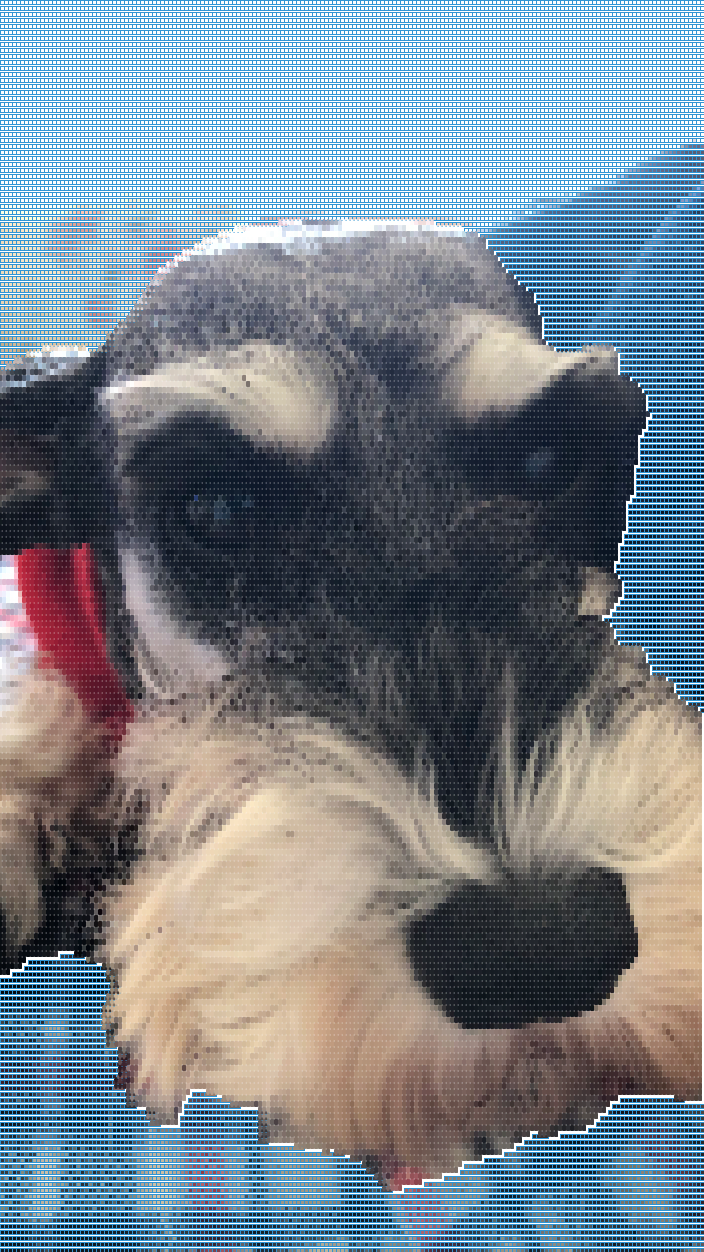
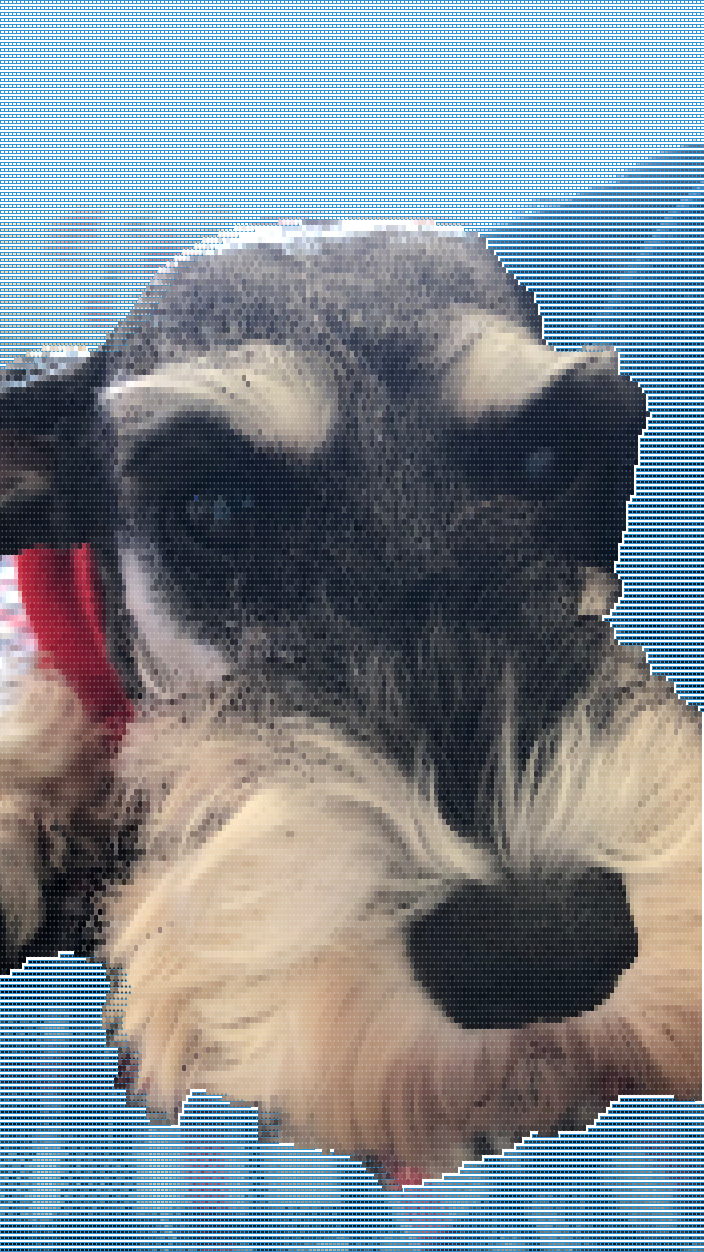
23

Changed region(s): [[0.0, 0.0, 1.0, 0.5607], [0.0, 0.7476, 1.0, 1.0]]

diff --git a/sketch.js b/sketch.js
@@ -2,8 +2,8 @@ let sourceImg=null;
 let maskImg=null;
 let renderCounter=0;
 
-let sourceFile = "input_1.jpg";
-let maskFile   = "mask_1.png";
+let sourceFile = "input_3.jpg";
+let maskFile   = "mask_3.png";
 let outputFile = "artwork_1.png";
 
 function preload() {
@@ -21,8 +21,8 @@ function setup () {
   sourceImg.loadPixels();
   maskImg.loadPixels();
 }
-const rect_width = 12;
-const rect_height = 4;
+const rect_width = 22;
+const rect_height = 3;
 const x1 = 4;
 const y1 = 6;
 function draw () {
